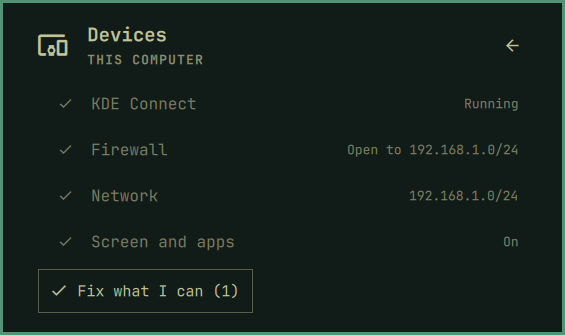
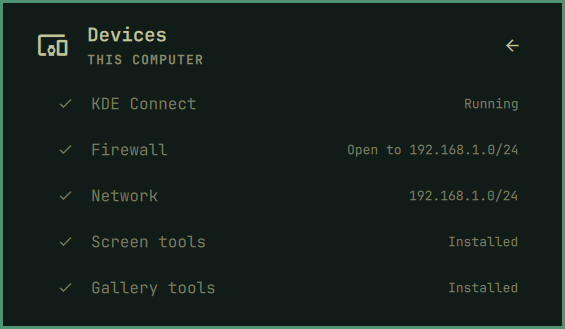
Docs: Settings and This computer retaken from the demo in the new shape

diff --git a/docs/settings.md b/docs/settings.md
@@ -6,7 +6,7 @@ Press `s` or the cog. Settings starts with whether everything works, and
 lists what needs you with *Fix all* and *Fix with AI* (your coding agent
 opens on it). The main page shows a red line too.
 
-![Settings: the status, My devices and This computer (demo data)](images/settings.png)
+![Settings: one thing to fix with Fix all and Fix with AI, My devices and This computer (demo data)](images/settings.png)
 
 - **My devices:** open one for its page (tabs go to the next); drag by the
   grip to reorder.

diff --git a/docs/getting-started.md b/docs/getting-started.md
@@ -28,7 +28,7 @@ click each. An iPhone shares files and the clipboard only.
 tools the screen and the gallery need, with a fix for each, or *Fix all*. Before a password, a card says exactly
 what it is for.
 
-![This computer: KDE Connect, the firewall and the network, all good (demo data)](images/connection.png)
+![This computer: KDE Connect, the firewall, the network and the tools, all good (demo data)](images/connection.png)
 
 ## Look around first
 
